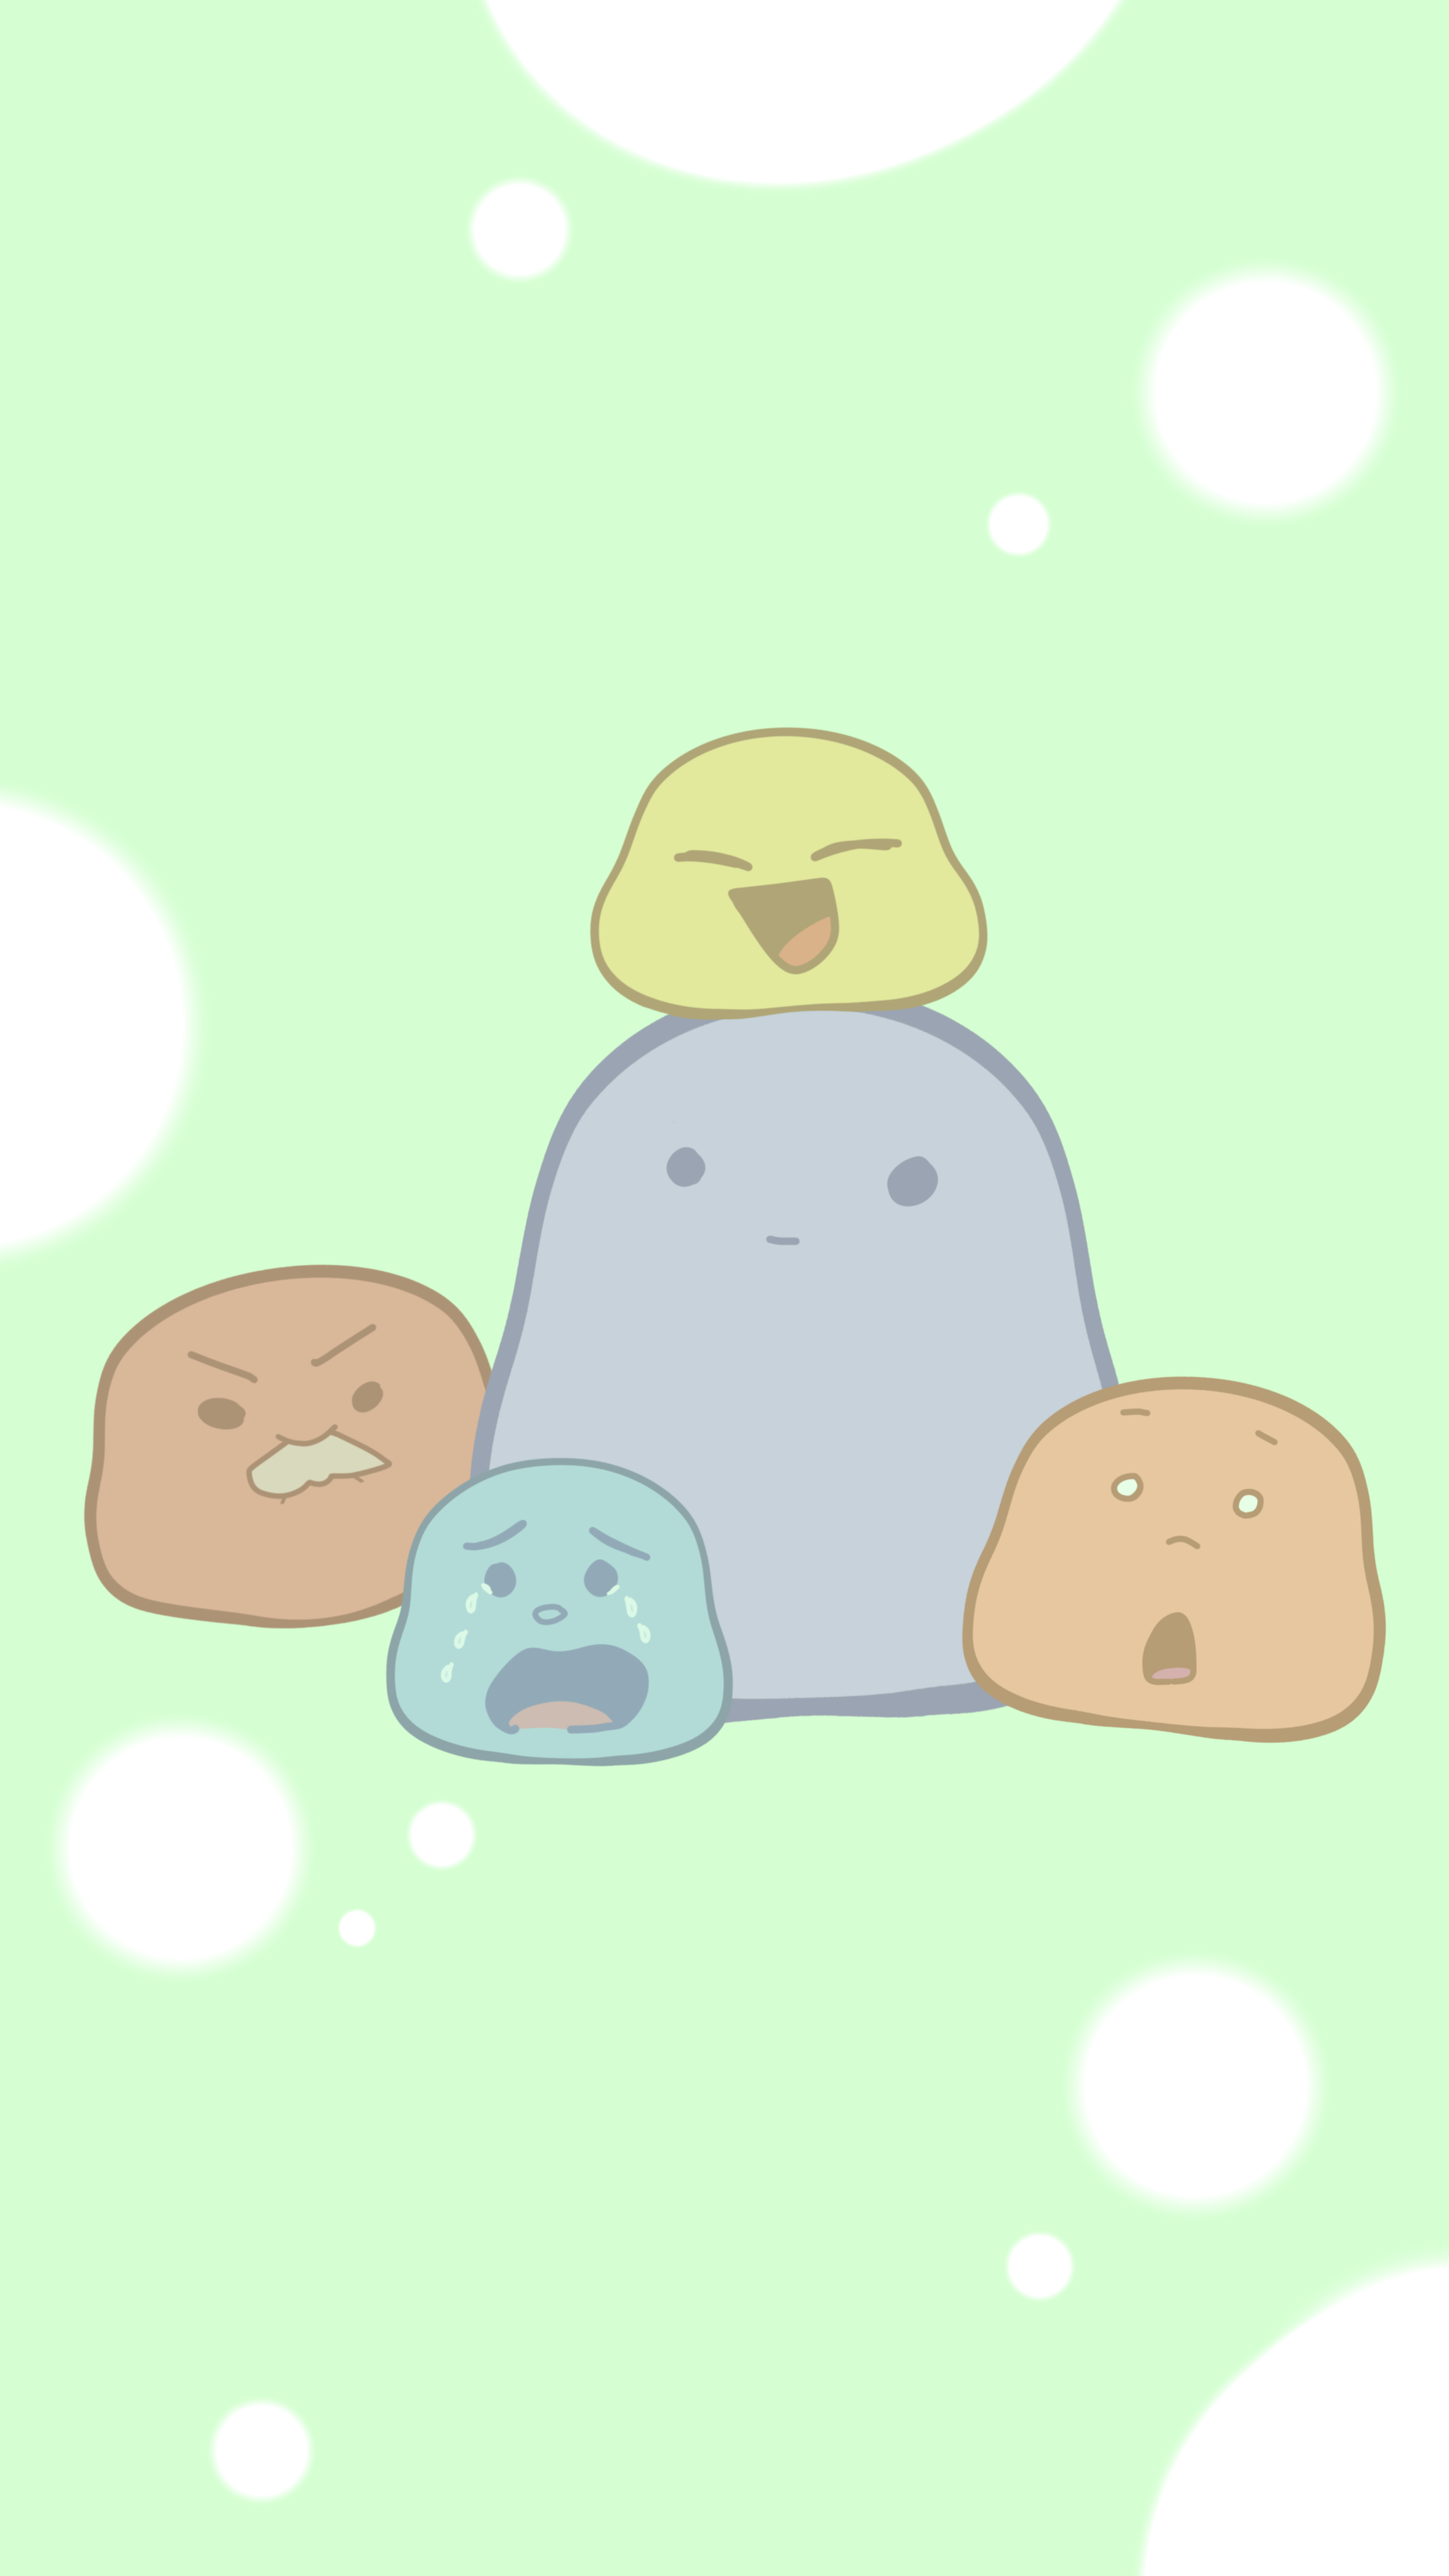
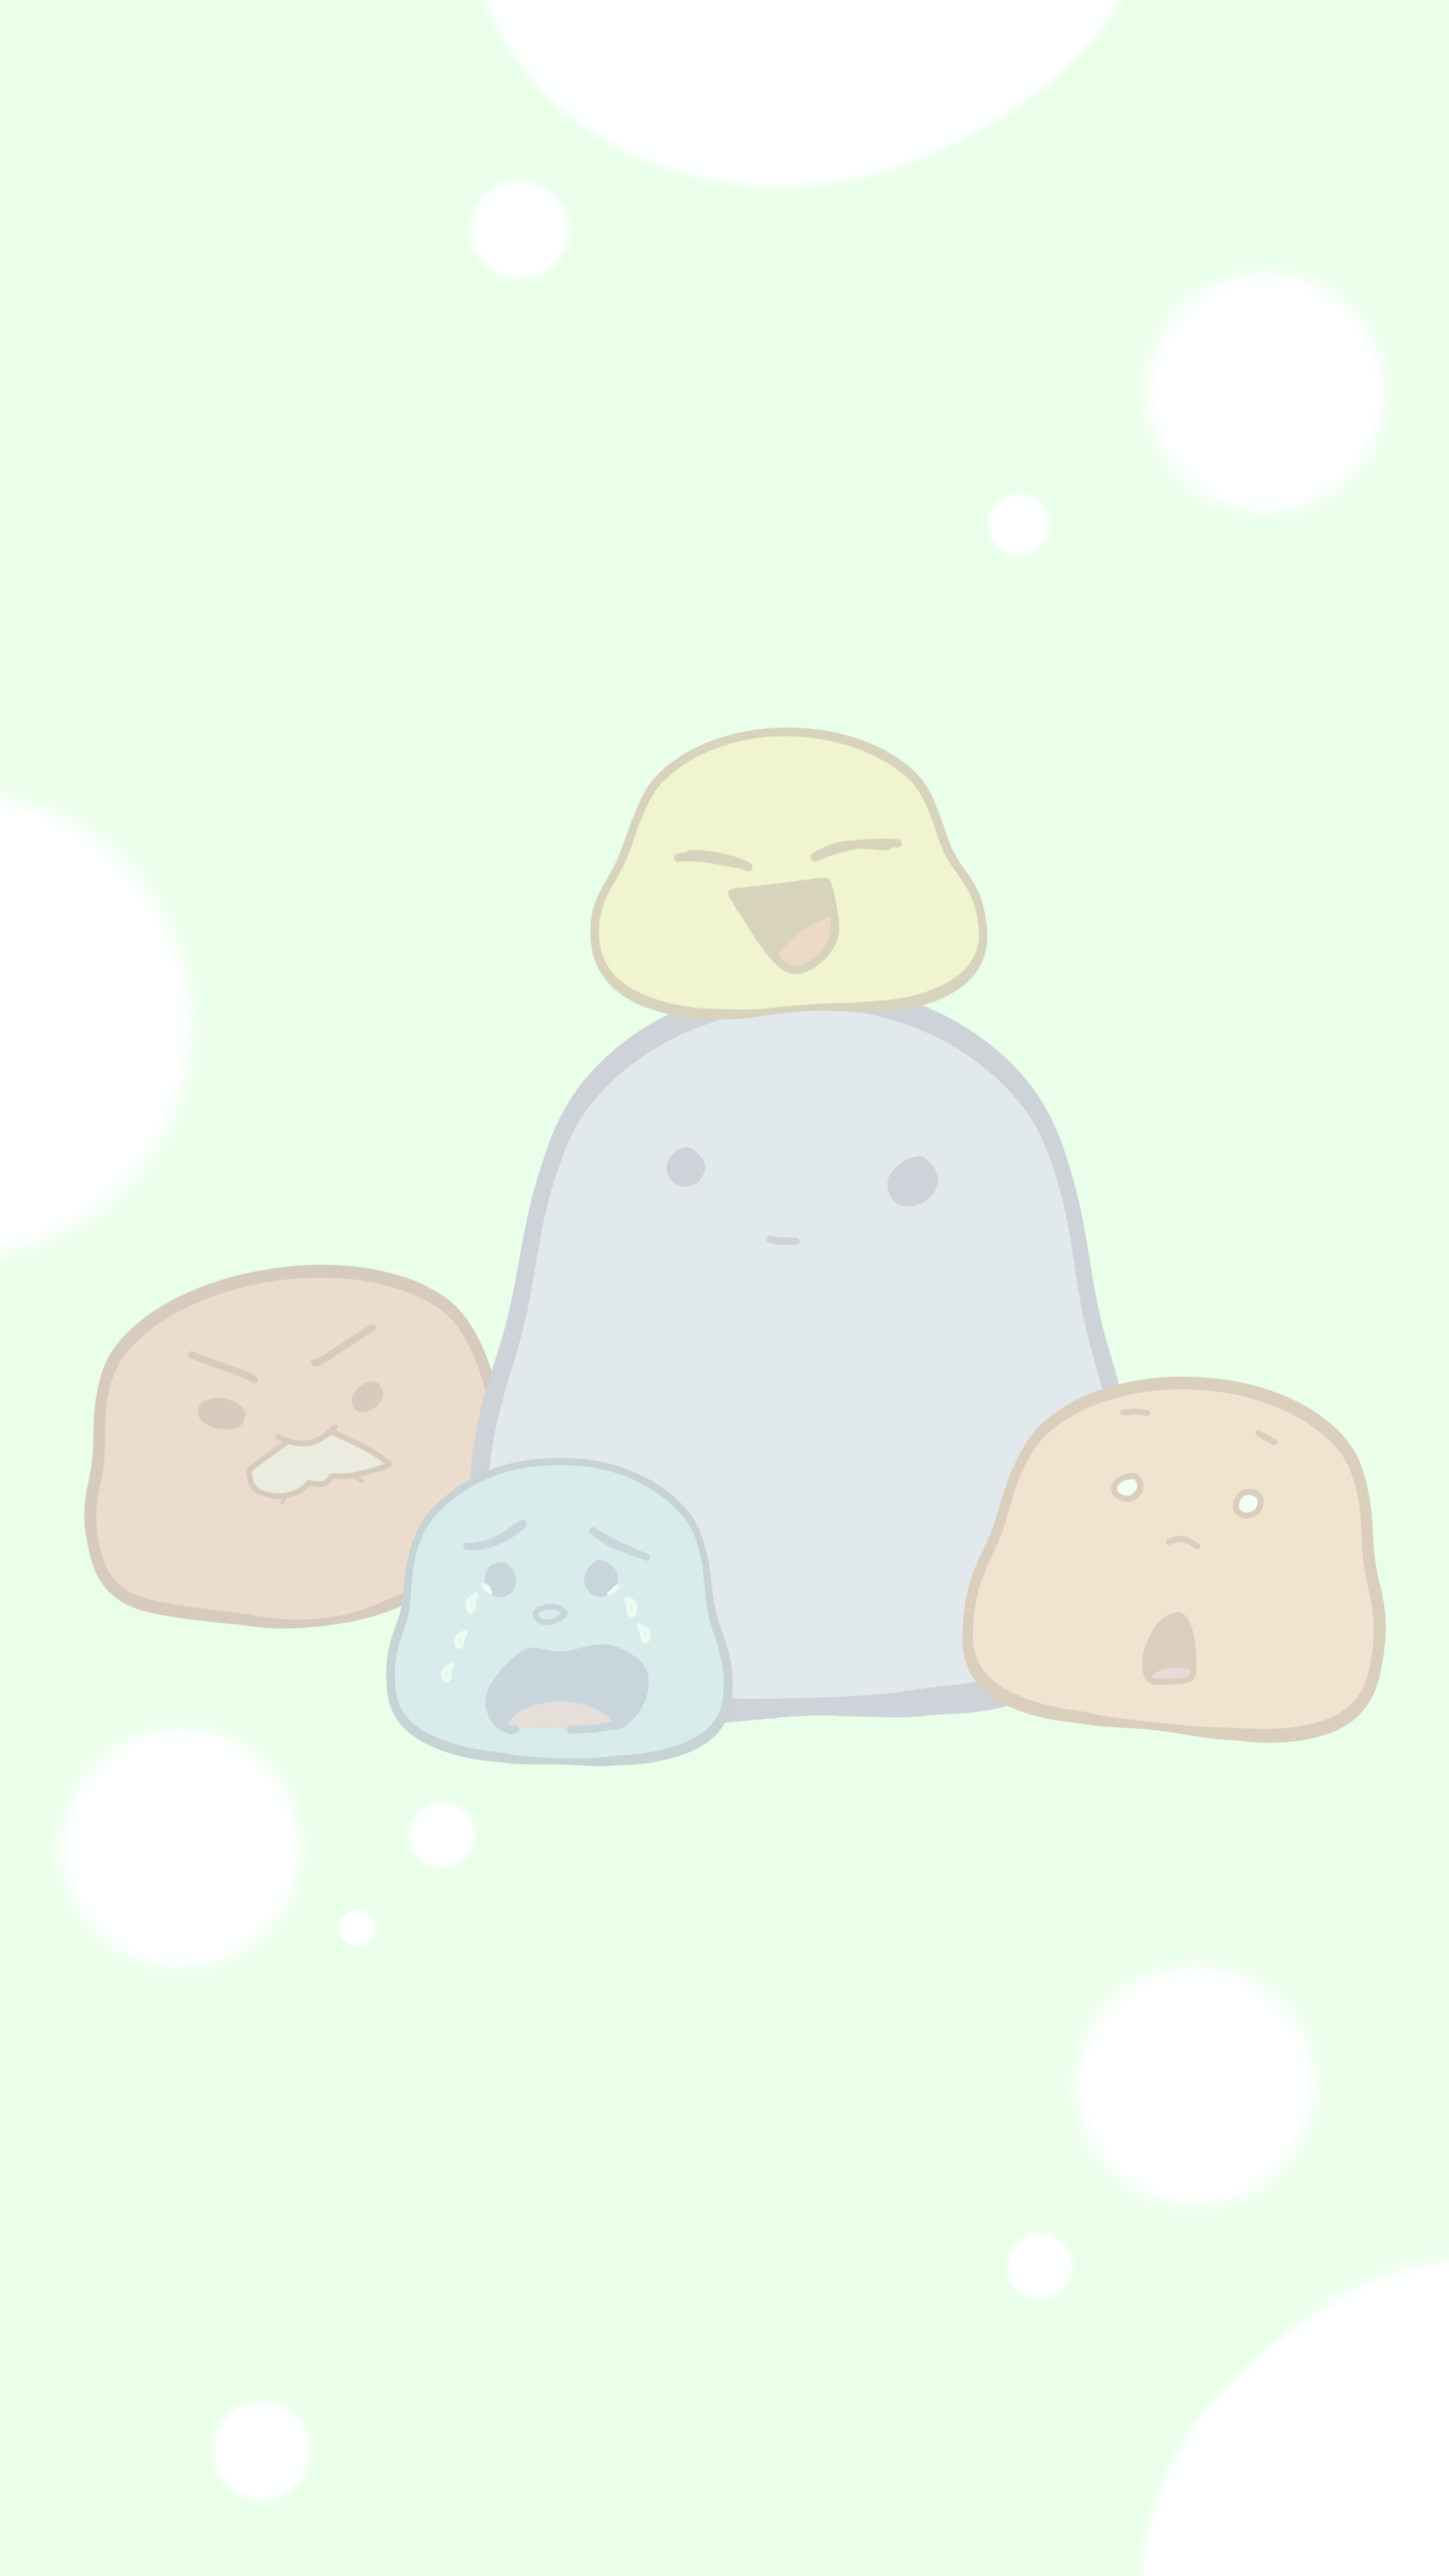
Reduce opacity of background

Changed region(s): [[0.0625, 0.2812, 0.9688, 0.6875]]

diff --git a/src/pages/add-entry.tsx b/src/pages/add-entry.tsx
@@ -98,7 +98,7 @@ export function AddEntry() {
           {/* day overview (TODO) */}
           <div
           className="m-4 h-max w-max rounded-lg"
-          style={{ border: `20px solid ${mood?.color}` }}
+          style={{ border: `20px solid ${mood?.color || "#888888"}` }}
         >
           <DisplayImageComponent uploadedImage={moodImageUrl as string} />
         </div>
